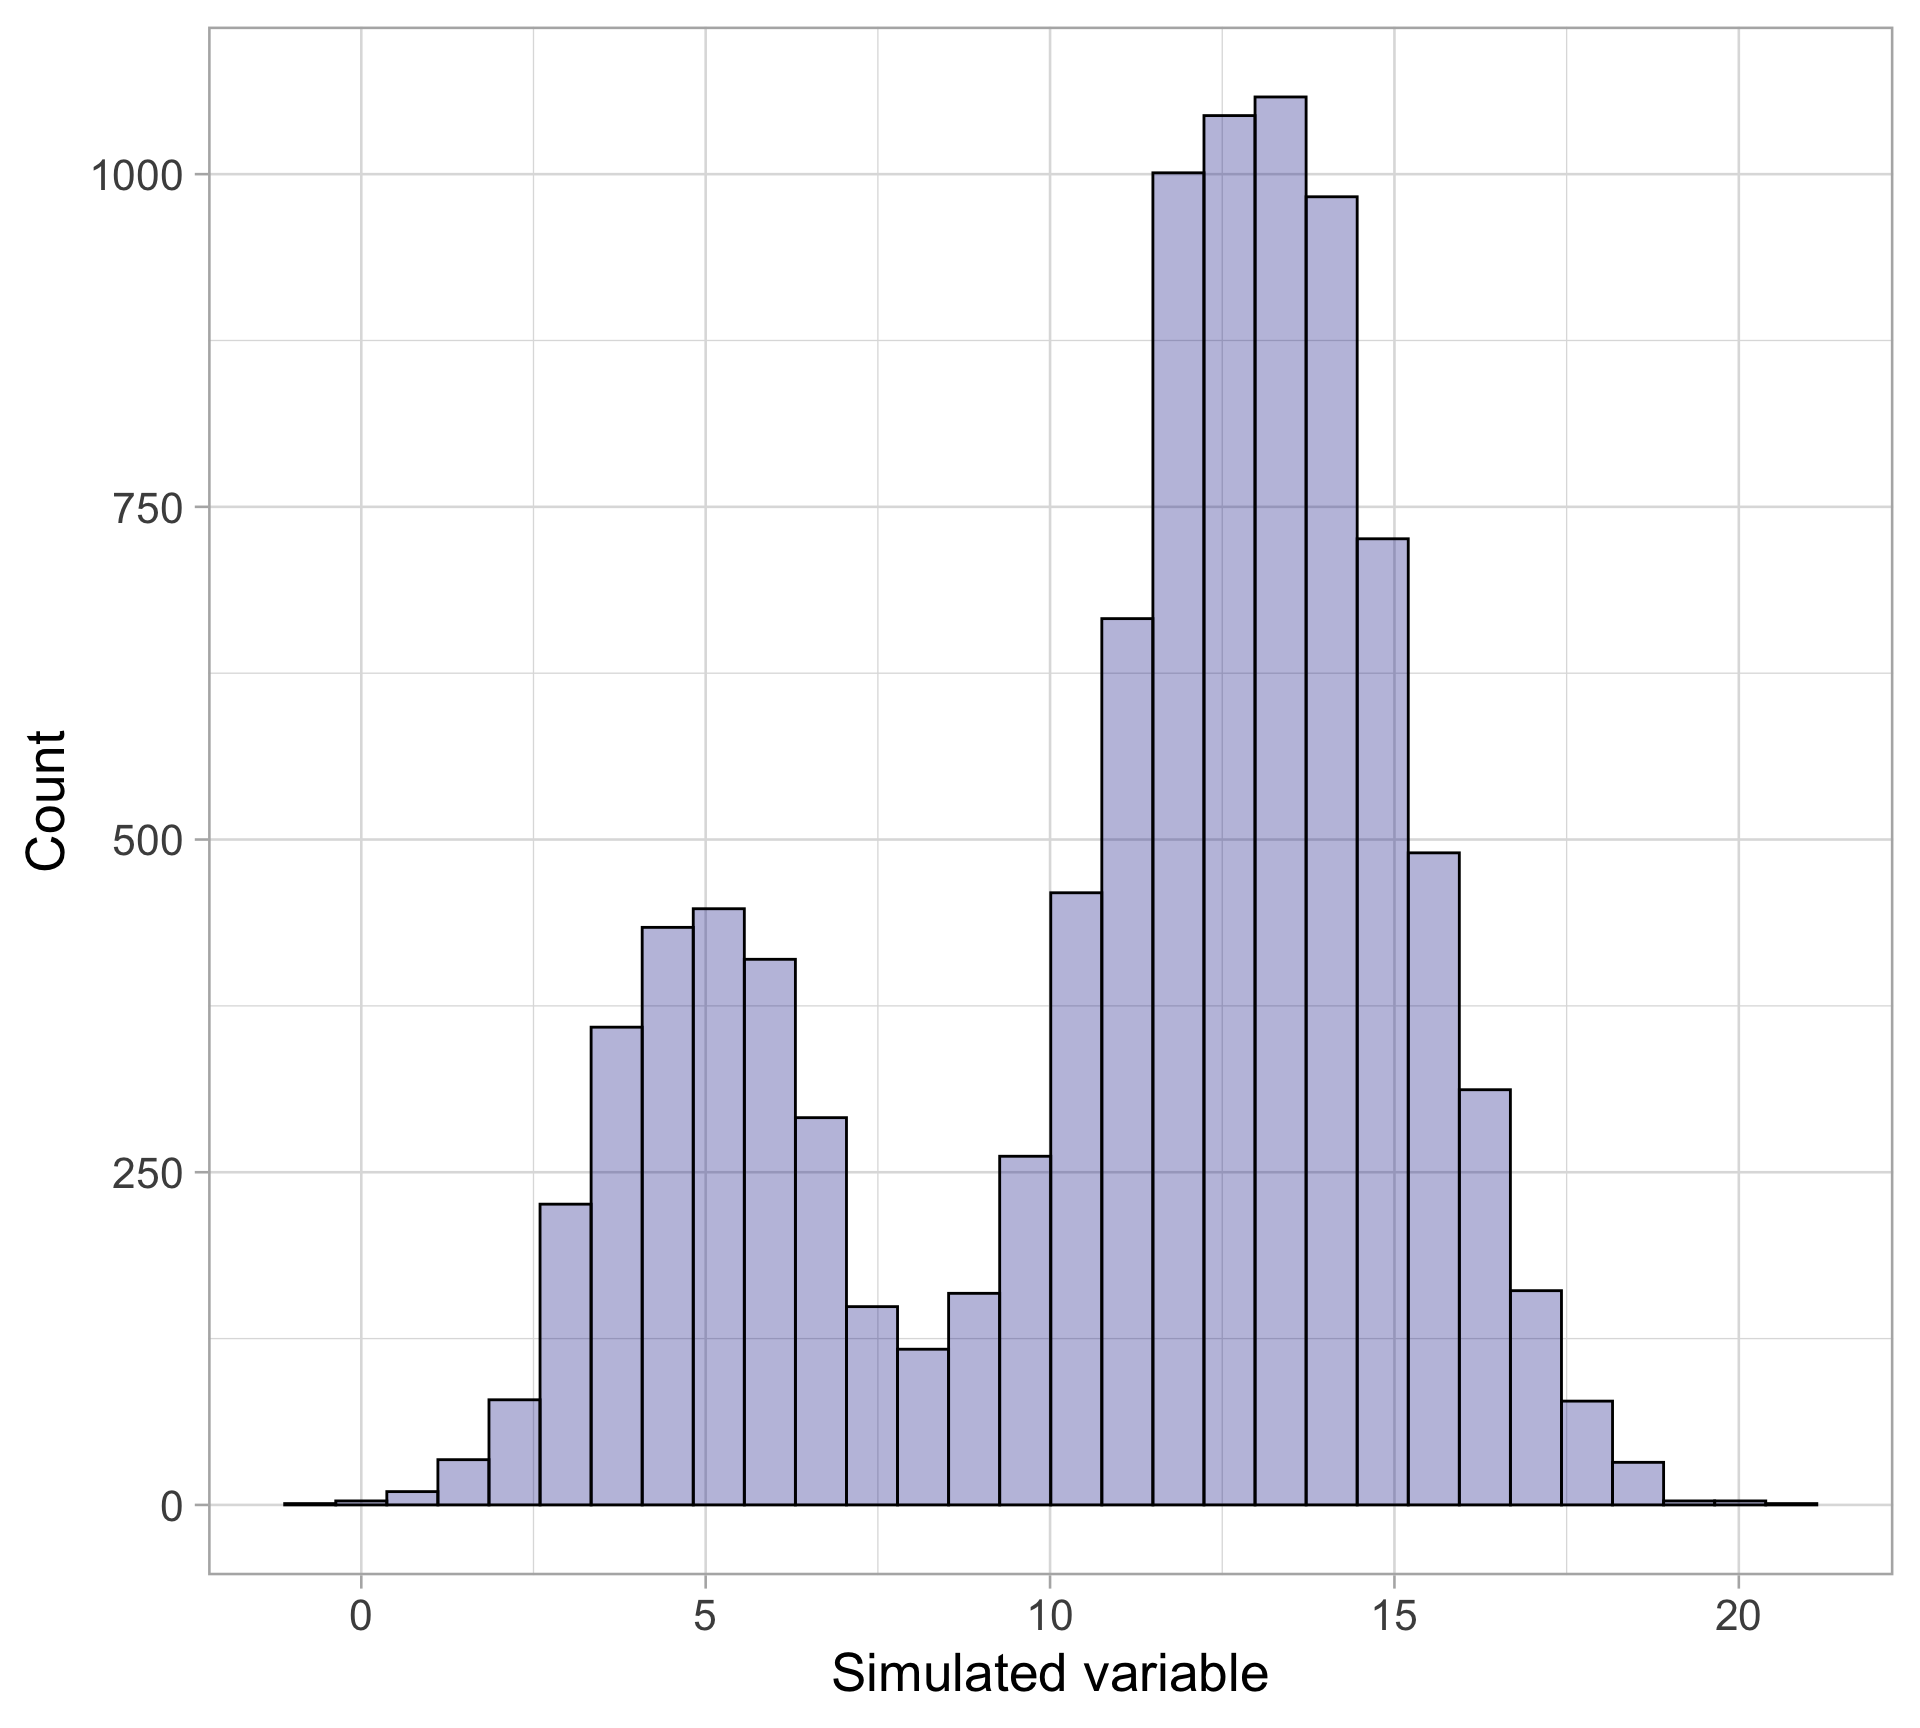
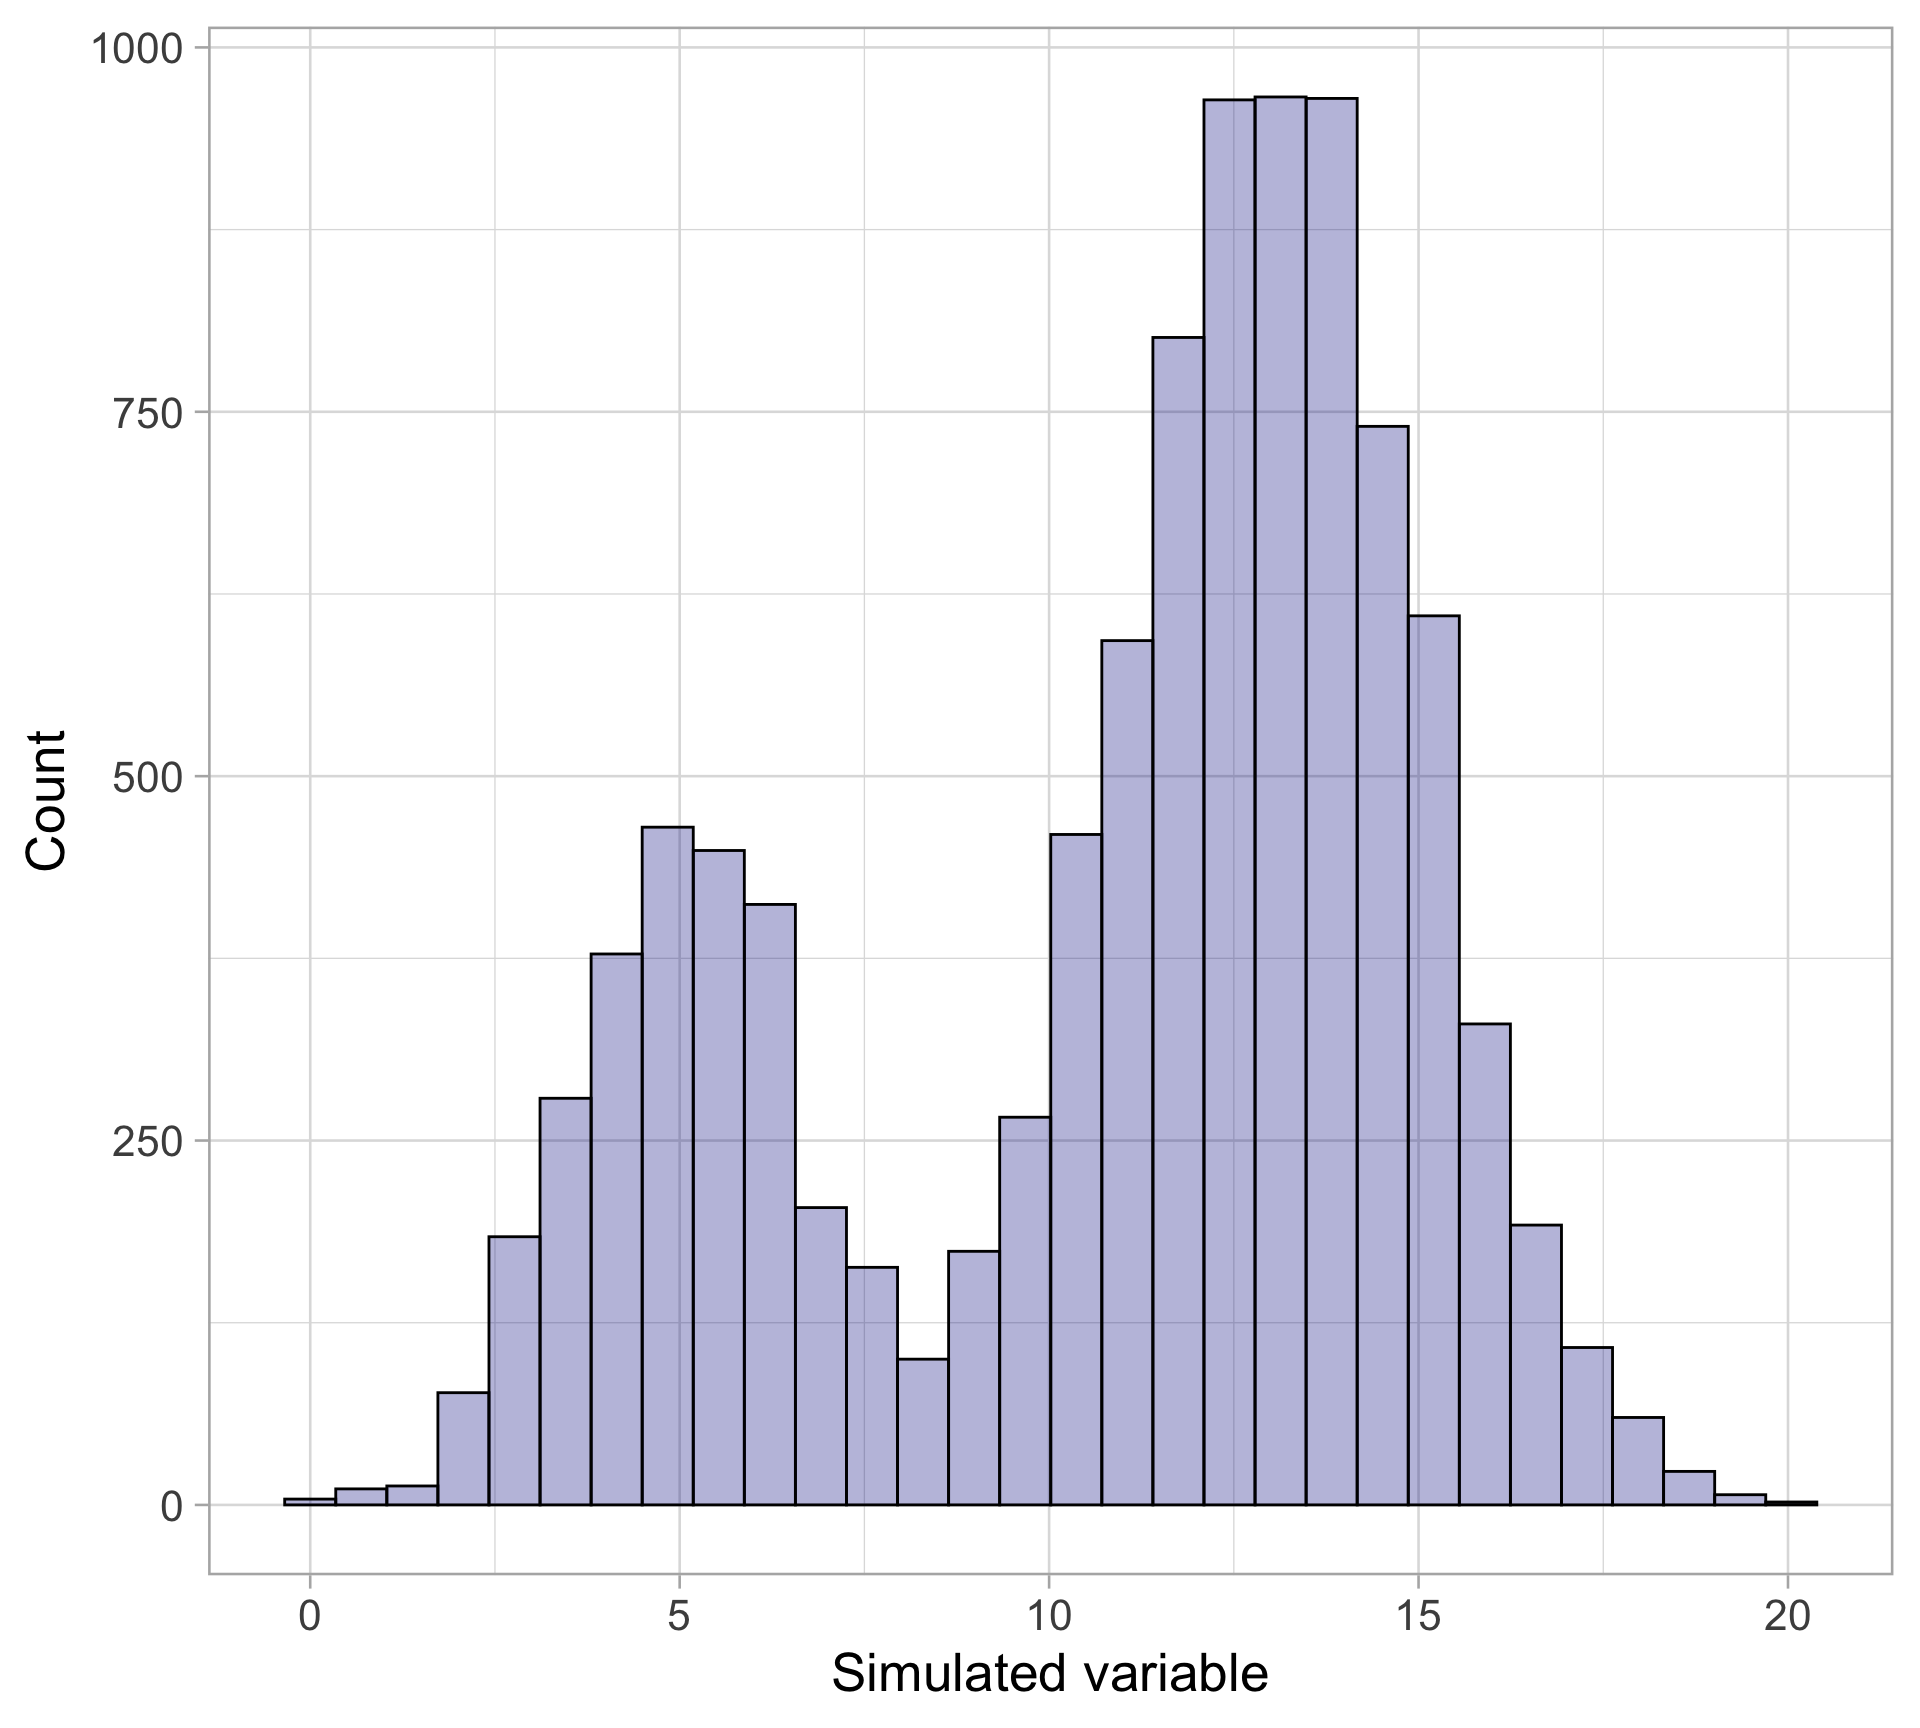
edit R script instruction

diff --git a/docs/lectures/08-simulation.html b/docs/lectures/08-simulation.html
@@ -437,21 +437,21 @@
 <span id="cb1-3"><a href="#cb1-3" aria-hidden="true" tabindex="-1"></a></span>
 <span id="cb1-4"><a href="#cb1-4" aria-hidden="true" tabindex="-1"></a><span class="fu">sample</span>(letters, <span class="at">size =</span> <span class="dv">5</span>) <span class="co"># sample without replacement, by default</span></span></code><button title="Copy to Clipboard" class="code-copy-button"><i class="bi"></i></button></pre></div>
 <div class="cell-output cell-output-stdout">
-<pre><code>[1] "h" "u" "m" "j" "n"</code></pre>
+<pre><code>[1] "r" "i" "l" "k" "j"</code></pre>
 </div>
 <div class="sourceCode cell-code" id="cb3"><pre class="sourceCode r code-with-copy"><code class="sourceCode r"><span id="cb3-1"><a href="#cb3-1" aria-hidden="true" tabindex="-1"></a><span class="fu">sample</span>(<span class="fu">c</span>(<span class="dv">0</span>, <span class="dv">1</span>), <span class="at">size =</span> <span class="dv">7</span>, <span class="at">replace =</span> <span class="cn">TRUE</span>) <span class="co"># sample with replacement</span></span></code><button title="Copy to Clipboard" class="code-copy-button"><i class="bi"></i></button></pre></div>
 <div class="cell-output cell-output-stdout">
-<pre><code>[1] 0 0 1 1 1 0 0</code></pre>
+<pre><code>[1] 0 0 1 1 0 0 0</code></pre>
 </div>
 <div class="sourceCode cell-code" id="cb5"><pre class="sourceCode r code-with-copy"><code class="sourceCode r"><span id="cb5-1"><a href="#cb5-1" aria-hidden="true" tabindex="-1"></a><span class="co"># 5 (independent) coin tosses</span></span>
 <span id="cb5-2"><a href="#cb5-2" aria-hidden="true" tabindex="-1"></a>coin <span class="ot">&lt;-</span> <span class="fu">c</span>(<span class="st">"H"</span>, <span class="st">"T"</span>)</span>
 <span id="cb5-3"><a href="#cb5-3" aria-hidden="true" tabindex="-1"></a><span class="fu">sample</span>(coin, <span class="dv">5</span>, <span class="at">replace =</span> <span class="cn">TRUE</span>)</span></code><button title="Copy to Clipboard" class="code-copy-button"><i class="bi"></i></button></pre></div>
 <div class="cell-output cell-output-stdout">
-<pre><code>[1] "T" "H" "H" "T" "H"</code></pre>
+<pre><code>[1] "T" "H" "H" "T" "T"</code></pre>
 </div>
 <div class="sourceCode cell-code" id="cb7"><pre class="sourceCode r code-with-copy"><code class="sourceCode r"><span id="cb7-1"><a href="#cb7-1" aria-hidden="true" tabindex="-1"></a><span class="fu">sample</span>(<span class="dv">1</span><span class="sc">:</span><span class="dv">100</span>, <span class="dv">1</span>) <span class="co"># sample a random integer between 1 and 100</span></span></code><button title="Copy to Clipboard" class="code-copy-button"><i class="bi"></i></button></pre></div>
 <div class="cell-output cell-output-stdout">
-<pre><code>[1] 18</code></pre>
+<pre><code>[1] 70</code></pre>
 </div>
 </div>
 </section>
@@ -579,12 +579,12 @@
 <span id="cb12-3"><a href="#cb12-3" aria-hidden="true" tabindex="-1"></a><span class="co"># check: the sample mean is approximately 0</span></span>
 <span id="cb12-4"><a href="#cb12-4" aria-hidden="true" tabindex="-1"></a><span class="fu">mean</span>(z) </span></code><button title="Copy to Clipboard" class="code-copy-button"><i class="bi"></i></button></pre></div>
 <div class="cell-output cell-output-stdout">
-<pre><code>[1] -0.04644326</code></pre>
+<pre><code>[1] -0.0007648093</code></pre>
 </div>
 <div class="sourceCode cell-code" id="cb14"><pre class="sourceCode r code-with-copy"><code class="sourceCode r"><span id="cb14-1"><a href="#cb14-1" aria-hidden="true" tabindex="-1"></a><span class="co"># check: the sample sd is approximately 1</span></span>
 <span id="cb14-2"><a href="#cb14-2" aria-hidden="true" tabindex="-1"></a><span class="fu">sd</span>(z)</span></code><button title="Copy to Clipboard" class="code-copy-button"><i class="bi"></i></button></pre></div>
 <div class="cell-output cell-output-stdout">
-<pre><code>[1] 0.9777888</code></pre>
+<pre><code>[1] 1.006588</code></pre>
 </div>
 </div>
 </section>
@@ -597,7 +597,7 @@
 <div class="sourceCode cell-code" id="cb16"><pre class="sourceCode r code-with-copy"><code class="sourceCode r"><span id="cb16-1"><a href="#cb16-1" aria-hidden="true" tabindex="-1"></a>z_ecdf <span class="ot">&lt;-</span> <span class="fu">ecdf</span>(z)</span>
 <span id="cb16-2"><a href="#cb16-2" aria-hidden="true" tabindex="-1"></a><span class="fu">z_ecdf</span>(<span class="dv">0</span>) <span class="co"># should get close to 1/2</span></span></code><button title="Copy to Clipboard" class="code-copy-button"><i class="bi"></i></button></pre></div>
 <div class="cell-output cell-output-stdout">
-<pre><code>[1] 0.506</code></pre>
+<pre><code>[1] 0.508</code></pre>
 </div>
 <div class="sourceCode cell-code" id="cb18"><pre class="sourceCode r code-with-copy"><code class="sourceCode r"><span id="cb18-1"><a href="#cb18-1" aria-hidden="true" tabindex="-1"></a><span class="fu">class</span>(z_ecdf)</span></code><button title="Copy to Clipboard" class="code-copy-button"><i class="bi"></i></button></pre></div>
 <div class="cell-output cell-output-stdout">
@@ -609,18 +609,18 @@
 <span id="cb20-4"><a href="#cb20-4" aria-hidden="true" tabindex="-1"></a>normal_tbl</span></code><button title="Copy to Clipboard" class="code-copy-button"><i class="bi"></i></button></pre></div>
 <div class="cell-output cell-output-stdout">
 <pre><code># A tibble: 1,000 × 3
-       z empirical      true
-   &lt;dbl&gt;     &lt;dbl&gt;     &lt;dbl&gt;
- 1 -3.78     0.001 0.0000783
- 2 -3.49     0.002 0.000244 
- 3 -3.39     0.003 0.000343 
- 4 -2.57     0.004 0.00506  
- 5 -2.50     0.005 0.00624  
- 6 -2.42     0.006 0.00770  
- 7 -2.41     0.007 0.00803  
- 8 -2.35     0.008 0.00935  
- 9 -2.30     0.009 0.0108   
-10 -2.21     0.01  0.0134   
+       z empirical     true
+   &lt;dbl&gt;     &lt;dbl&gt;    &lt;dbl&gt;
+ 1 -3.46     0.001 0.000273
+ 2 -3.00     0.002 0.00137 
+ 3 -2.81     0.003 0.00248 
+ 4 -2.75     0.004 0.00295 
+ 5 -2.56     0.005 0.00524 
+ 6 -2.47     0.006 0.00669 
+ 7 -2.46     0.007 0.00695 
+ 8 -2.44     0.008 0.00737 
+ 9 -2.30     0.009 0.0108  
+10 -2.29     0.01  0.0110  
 # ℹ 990 more rows</code></pre>
 </div>
 </div>
@@ -654,7 +654,7 @@
 <span id="cb23-5"><a href="#cb23-5" aria-hidden="true" tabindex="-1"></a><span class="co"># hist(ratio)</span></span>
 <span id="cb23-6"><a href="#cb23-6" aria-hidden="true" tabindex="-1"></a><span class="fu">mean</span>(ratio) <span class="co"># exact answer: 2 * log(2) - 1</span></span></code><button title="Copy to Clipboard" class="code-copy-button"><i class="bi"></i></button></pre></div>
 <div class="cell-output cell-output-stdout">
-<pre><code>[1] 0.3853753</code></pre>
+<pre><code>[1] 0.3784981</code></pre>
 </div>
 </div>
 </div>
@@ -692,7 +692,7 @@
 <span id="cb25-4"><a href="#cb25-4" aria-hidden="true" tabindex="-1"></a>inside <span class="ot">&lt;-</span> <span class="fu">ifelse</span>(x<span class="sc">^</span><span class="dv">2</span> <span class="sc">+</span> y<span class="sc">^</span><span class="dv">2</span> <span class="sc">&lt;=</span> <span class="dv">1</span>, <span class="dv">1</span>, <span class="dv">0</span>)</span>
 <span id="cb25-5"><a href="#cb25-5" aria-hidden="true" tabindex="-1"></a><span class="dv">4</span> <span class="sc">*</span> <span class="fu">mean</span>(inside)</span></code><button title="Copy to Clipboard" class="code-copy-button"><i class="bi"></i></button></pre></div>
 <div class="cell-output cell-output-stdout">
-<pre><code>[1] 3.1348</code></pre>
+<pre><code>[1] 3.156</code></pre>
 </div>
 </div>
 </div><div class="column" style="text-align: left;">
@@ -719,15 +719,15 @@
 <div class="cell">
 <div class="sourceCode cell-code" id="cb28"><pre class="sourceCode r code-with-copy"><code class="sourceCode r"><span id="cb28-1"><a href="#cb28-1" aria-hidden="true" tabindex="-1"></a><span class="fu">mean</span>(<span class="fu">rnorm</span>(<span class="dv">100</span>))</span></code><button title="Copy to Clipboard" class="code-copy-button"><i class="bi"></i></button></pre></div>
 <div class="cell-output cell-output-stdout">
-<pre><code>[1] -0.1687522</code></pre>
+<pre><code>[1] -0.08307993</code></pre>
 </div>
 <div class="sourceCode cell-code" id="cb30"><pre class="sourceCode r code-with-copy"><code class="sourceCode r"><span id="cb30-1"><a href="#cb30-1" aria-hidden="true" tabindex="-1"></a><span class="fu">mean</span>(<span class="fu">rnorm</span>(<span class="dv">100</span>))</span></code><button title="Copy to Clipboard" class="code-copy-button"><i class="bi"></i></button></pre></div>
 <div class="cell-output cell-output-stdout">
-<pre><code>[1] -0.08810858</code></pre>
+<pre><code>[1] 0.1152982</code></pre>
 </div>
 <div class="sourceCode cell-code" id="cb32"><pre class="sourceCode r code-with-copy"><code class="sourceCode r"><span id="cb32-1"><a href="#cb32-1" aria-hidden="true" tabindex="-1"></a><span class="fu">mean</span>(<span class="fu">rnorm</span>(<span class="dv">100</span>))</span></code><button title="Copy to Clipboard" class="code-copy-button"><i class="bi"></i></button></pre></div>
 <div class="cell-output cell-output-stdout">
-<pre><code>[1] -0.04531003</code></pre>
+<pre><code>[1] -0.02875555</code></pre>
 </div>
 </div>
 </section>

diff --git a/docs/health/labs/01-intro.html b/docs/health/labs/01-intro.html
@@ -186,7 +186,8 @@ pre > code.sourceCode > span > a:first-child::before { text-decoration: underlin
 <h2 class="anchored" data-anchor-id="typical-workflow">Typical workflow</h2>
 <section id="writing-r-scripts" class="level3">
 <h3 class="anchored" data-anchor-id="writing-r-scripts">Writing <code>R</code> scripts</h3>
-<p>You can type commands directly into the <strong>Console</strong> (lower left pane), but this can become quite tedious and annoying when your work becomes more complex. Instead, you can code in <strong>R Scripts</strong>. An R Script is a file type which <code>R</code> recognizes as storing <code>R</code> commands and is saved as a <strong>.R</strong> file. R Scripts are useful as we can edit our code before sending it to be run in the console. You can create a new R Script by clicking on the top left symbol in RStudio and selecting <strong>R Script</strong>.</p>
+<p>You can type <code>R</code> commands directly into the <strong>Console</strong> (lower left pane), but this can become quite tedious and annoying when your work becomes more complex. Instead, you can code in <strong>R Scripts</strong>. An R Script is a file type which <code>R</code> recognizes as storing <code>R</code> commands and is saved as a <strong>.R</strong> file. R Scripts are useful as we can edit our code before sending it to be run in the console.</p>
+<p>In RStudio, to open a new R Script: File &gt; New File &gt; R Script.</p>
 </section>
 <section id="using-quarto" class="level3">
 <h3 class="anchored" data-anchor-id="using-quarto">Using Quarto</h3>

diff --git a/docs/sports/labs/01-intro.html b/docs/sports/labs/01-intro.html
@@ -186,7 +186,8 @@ pre > code.sourceCode > span > a:first-child::before { text-decoration: underlin
 <h2 class="anchored" data-anchor-id="typical-workflow">Typical workflow</h2>
 <section id="writing-r-scripts" class="level3">
 <h3 class="anchored" data-anchor-id="writing-r-scripts">Writing <code>R</code> scripts</h3>
-<p>You can type commands directly into the <strong>Console</strong> (lower left pane), but this can become quite tedious and annoying when your work becomes more complex. Instead, you can code in <strong>R Scripts</strong>. An R Script is a file type which <code>R</code> recognizes as storing <code>R</code> commands and is saved as a <strong>.R</strong> file. R Scripts are useful as we can edit our code before sending it to be run in the console. You can create a new R Script by clicking on the top left symbol in RStudio and selecting <strong>R Script</strong>.</p>
+<p>You can type <code>R</code> commands directly into the <strong>Console</strong> (lower left pane), but this can become quite tedious and annoying when your work becomes more complex. Instead, you can code in <strong>R Scripts</strong>. An R Script is a file type which <code>R</code> recognizes as storing <code>R</code> commands and is saved as a <strong>.R</strong> file. R Scripts are useful as we can edit our code before sending it to be run in the console.</p>
+<p>In RStudio, to open a new R Script: File &gt; New File &gt; R Script.</p>
 </section>
 <section id="using-quarto" class="level3">
 <h3 class="anchored" data-anchor-id="using-quarto">Using Quarto</h3>
